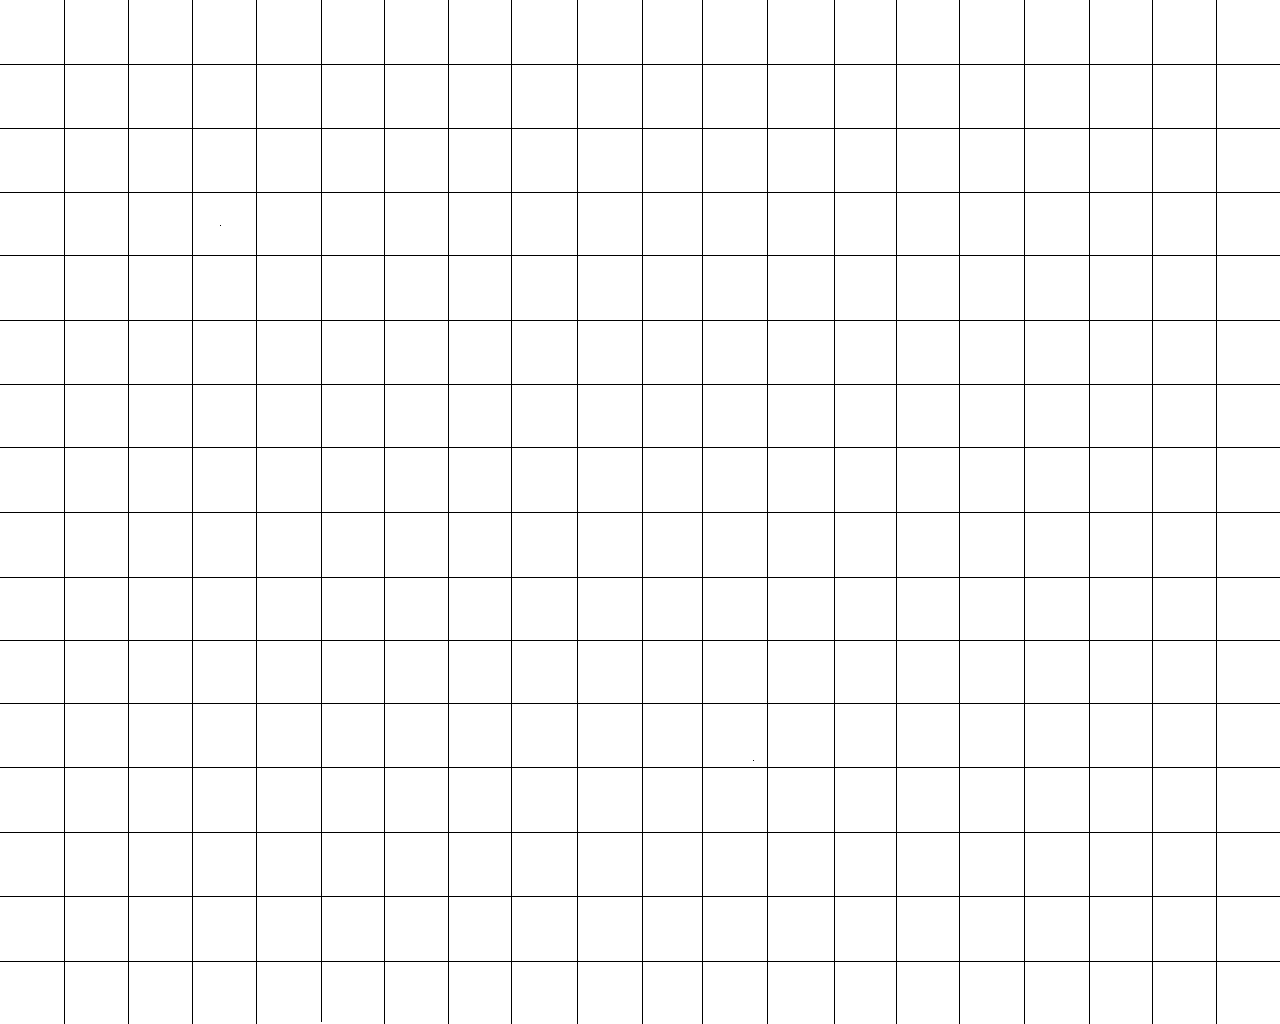
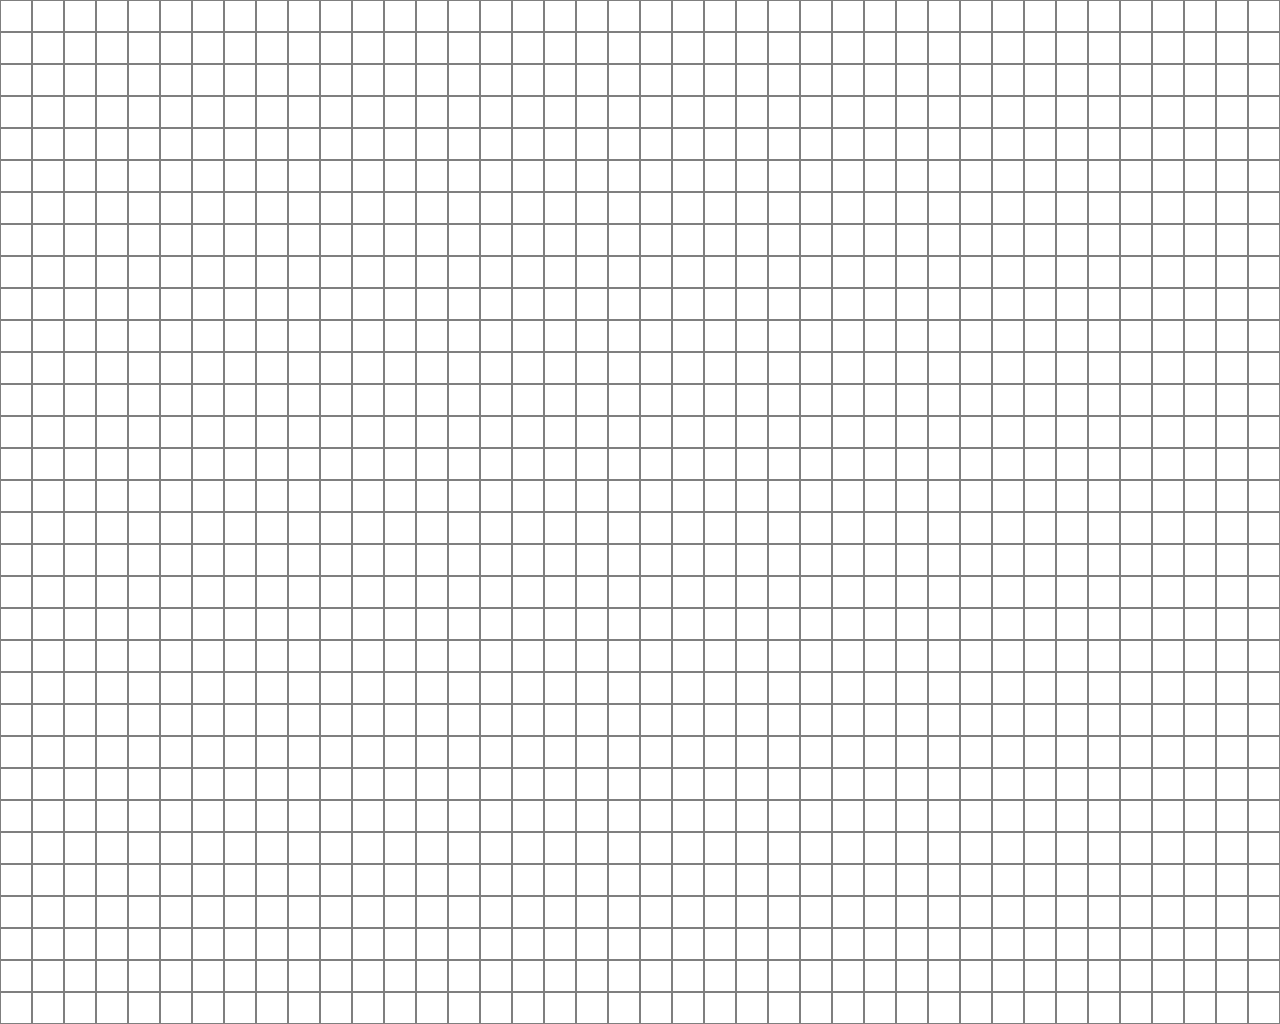
More progress with tile size change

Changed region(s): [[0.0, 0.0, 1.0, 1.0]]

diff --git a/classes/Menu.cpp b/classes/Menu.cpp
@@ -5,7 +5,7 @@
 #include "ConfigFile.h"
 #include "SDL_setup.h"
 
-Menu::Menu(Level *level, LAYERS render_layer) : Renderable(render_layer)
+Menu::Menu(Level *level, const LAYERS render_layer) : Renderable(render_layer)
 {
 	this->mLevel = level;
 	this->mOpen_tab = TOWER;
@@ -114,8 +114,8 @@ void Menu::sort_items_into_menu()
 	for (auto j = 0; j < BUILDINGTYPE::BUILDINGTYPES_TOTAL; j++) {
 		for (auto i = 0; ; i++)
 		{
-			coords.x = 1300 + (i % number_of_items_per_row) * TILE_WIDTH;
-			coords.y = 64 + (i / number_of_items_per_row) * TILE_HEIGHT;
+			coords.x = 1300 + (i % number_of_items_per_row) * MENU_ITEM_WIDTH;
+			coords.y = 64 + (i / number_of_items_per_row) * MENU_ITEM_HEIGHT;
 
 			if(!gConfig_file->value_exists(types.at(j), std::to_string(i)))
 			{

diff --git a/classes/MouseHandler.cpp b/classes/MouseHandler.cpp
@@ -58,6 +58,8 @@ void MouseHandler::update()
 
 	for (auto it = this->mClickables.begin(); it != end; ++it)
 	{
+		if (*it == nullptr) continue;
+
 		const auto rect = (*it)->get_clickable_space();
 		if (mouse_x > rect.x && mouse_x < rect.x + rect.w && 
 			mouse_y > rect.y && mouse_y < rect.y + rect.h && 

diff --git a/headers/SDL_setup.h b/headers/SDL_setup.h
@@ -9,6 +9,9 @@ const int LOGICAL_SCREEN_HEIGHT = 1080;
 const int TILE_HEIGHT = 32;
 const int TILE_WIDTH = 32;
 
+const int MENU_ITEM_WIDTH = 70;
+const int MENU_ITEM_HEIGHT = 70;
+
 const int MATRIX_HEIGHT = 32;
 const int MATRIX_WIDTH = 40;
 
